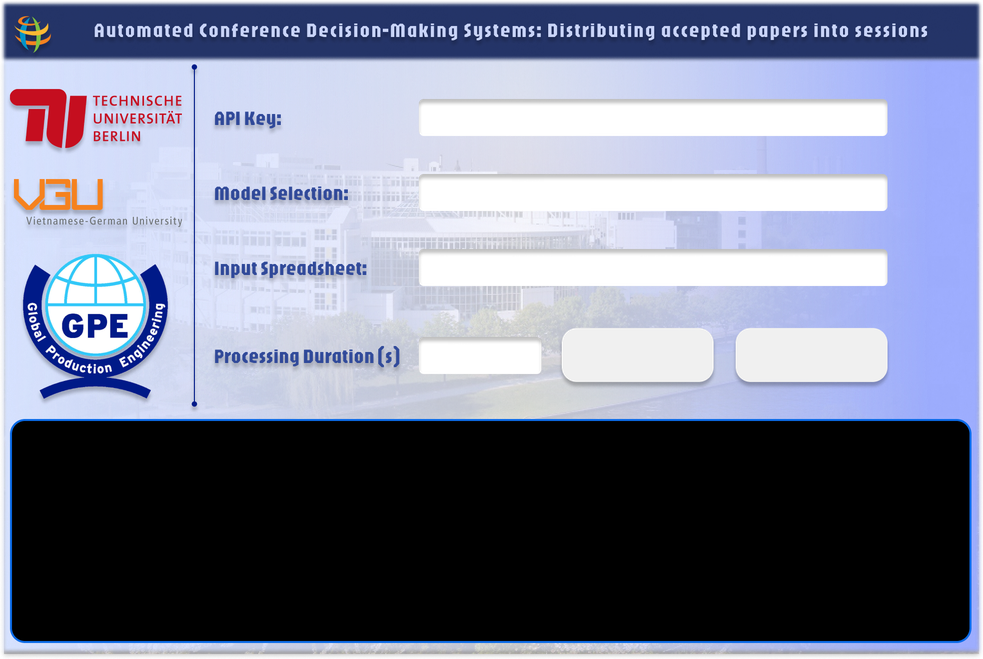
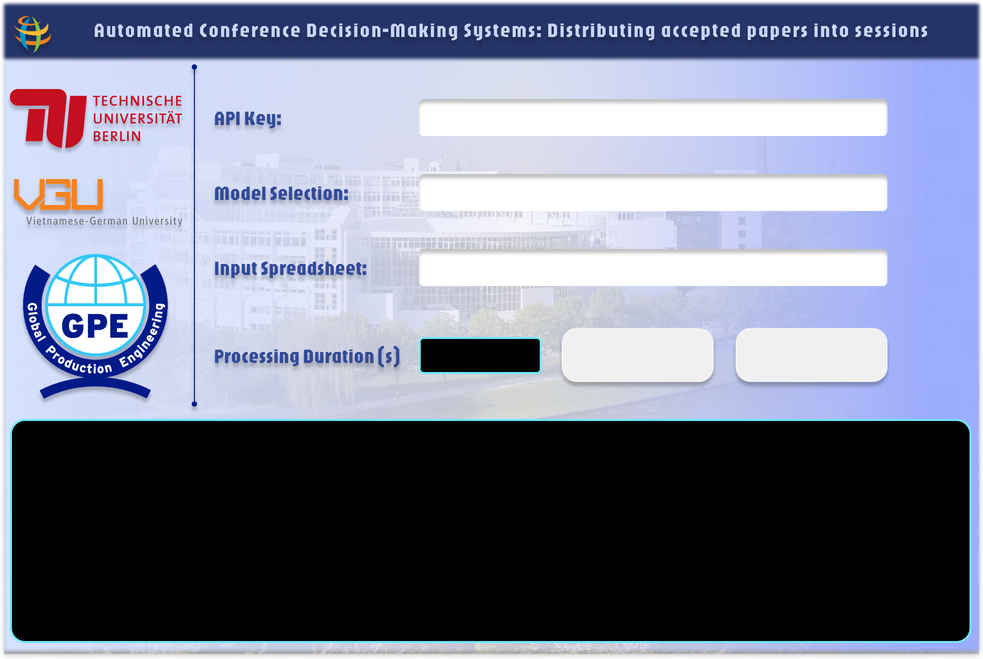
1. Improve UI elements.

diff --git a/Progs/Main_Application_UI.py b/Progs/Main_Application_UI.py
@@ -77,7 +77,12 @@ image_1 = canvas.create_image(
 entry_image_2 = PhotoImage(file=relative_to_assets("timedisplay.png"))
 entry_bg_2 = canvas.create_image(476.5, 355.0, image=entry_image_2)
 entry_2 = Entry(bd=0, bg="#FFFFFF", fg="#000716", highlightthickness=0)
-entry_2.place(x=422.0, y=344.0, width=109.0, height=20.0)
+entry_2.place(
+    x=429.0,
+    y=344.0,
+    width=95.0,
+    height=20.0
+)
 
 # Set the window icon (cross-platform)
 try:
@@ -334,8 +339,8 @@ entry_bg_2 = canvas.create_image(
 )
 entry_2 = Entry(
     bd=0,
-    bg="#FFFFFF",
-    fg="#000716",
+    bg="#000000",
+    fg="#70e4f8",
     highlightthickness=0
 )
 entry_2.place(
@@ -356,7 +361,7 @@ entry_bg_5 = canvas.create_image(
 entry_5 = Text(
     bd=0,
     bg="#000000",
-    fg="#000716",
+    fg="#70e4f8",
     highlightthickness=0
 )
 entry_5.place(
